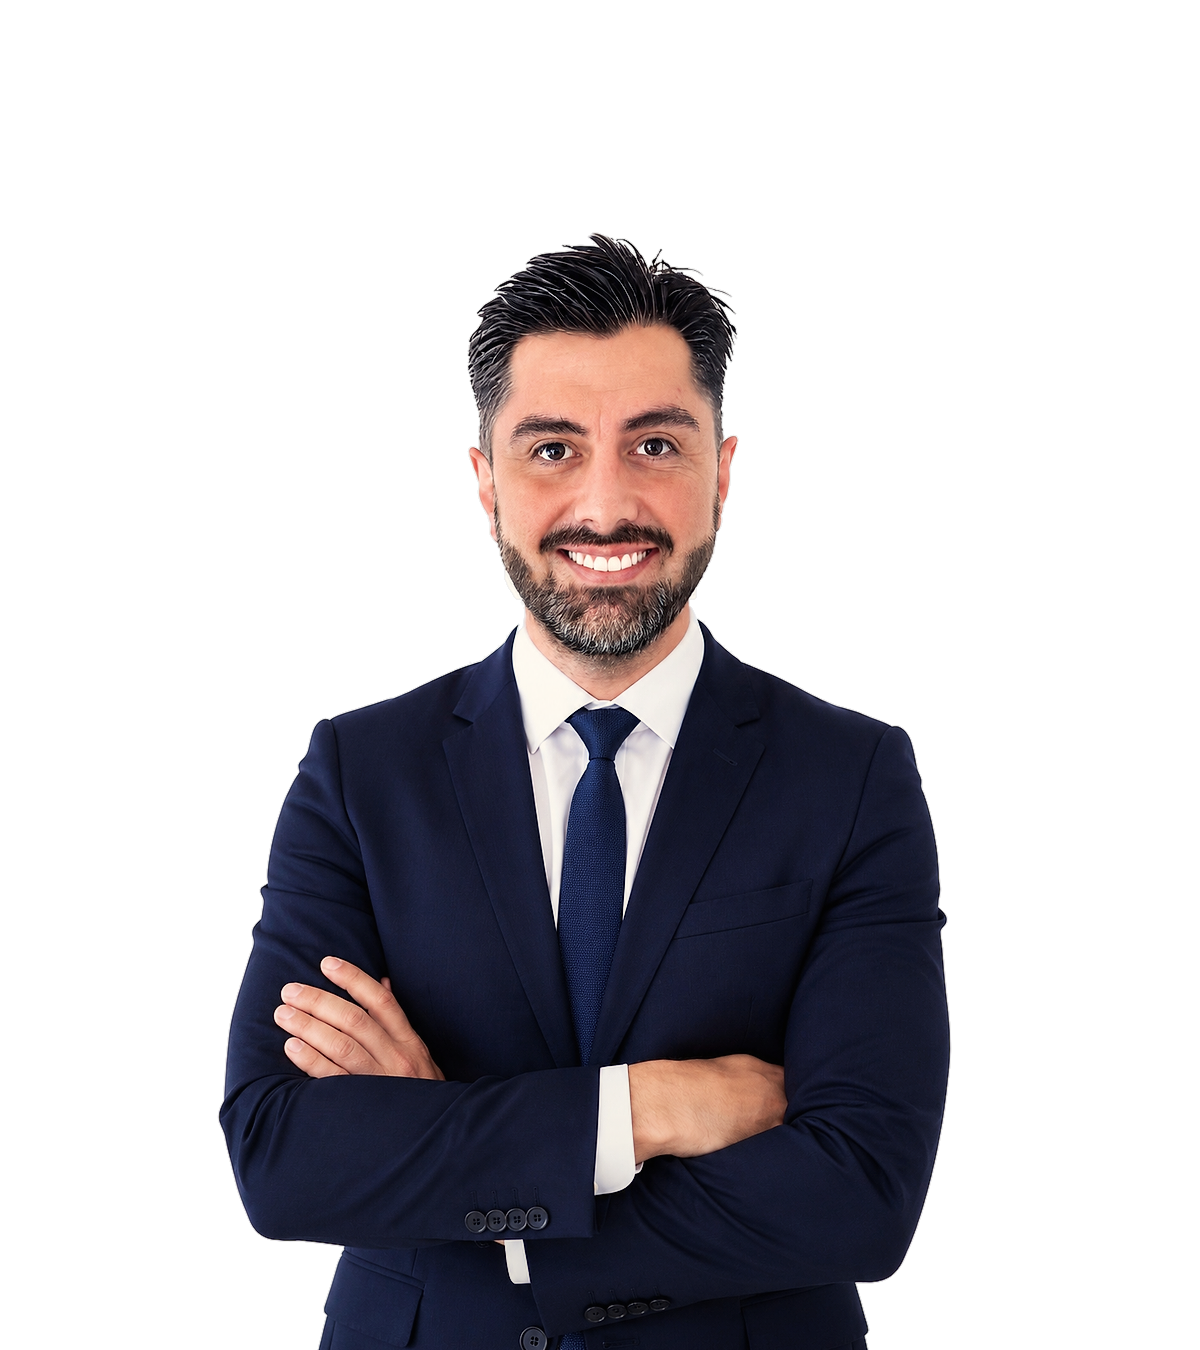
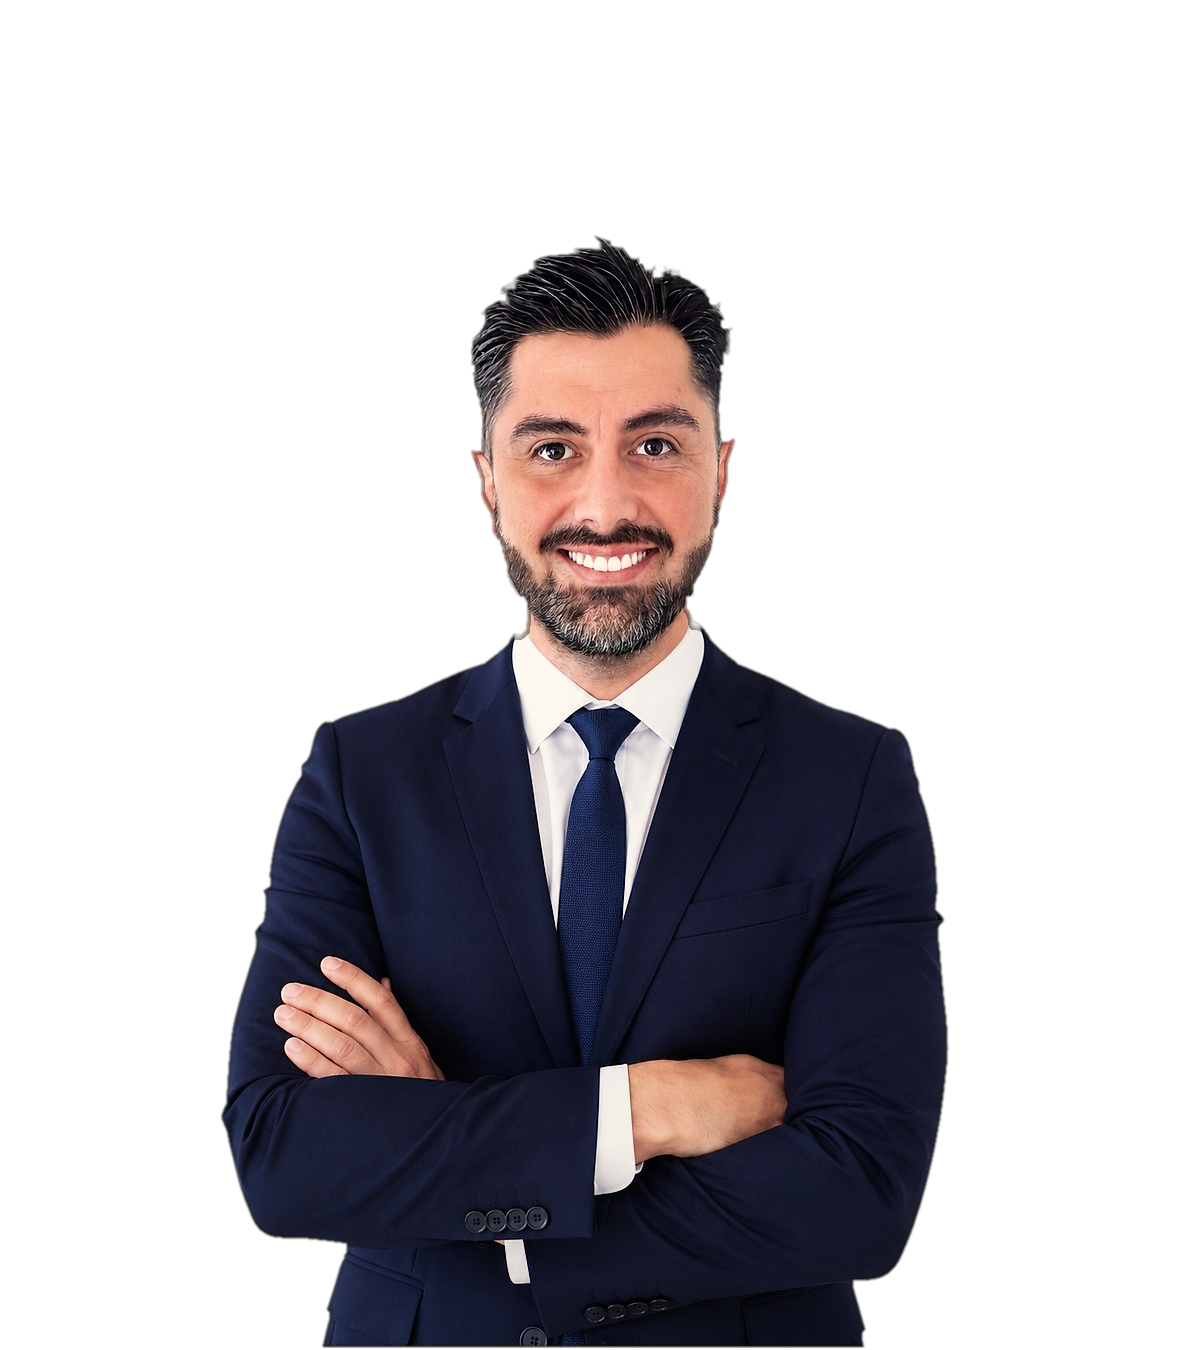
Limpia el halo de los recortes de los directores e iguala su tamaño
Los PNG recortados traían un borde blanco de 2 a 4 px que se notaba sobre el
fondo de tinta. Se erosiona ese borde, se quita la mezcla con blanco y la
franja interior se funde hacia el color del fondo. Las dos figuras pasan a
medir lo mismo; Juan Carlos sigue delante.

diff --git a/components/site/home/HomeSections.tsx b/components/site/home/HomeSections.tsx
@@ -240,8 +240,8 @@ export function HomeBooksBand() {
  * de la foto coincidiendo con el borde inferior del bloque y la cabeza por
  * encima del borde superior. La geometría es plana (colores del sistema,
  * radio de 6px, sin degradados ni sombras); el peso lo ponen la escala y el
- * contraste. Juan Carlos va delante como figura principal; Hugo detrás, sobre el
- * plano de cobre. Al pasar por la ficha de una persona, la otra figura baja
+ * contraste. Las dos figuras miden lo mismo; Juan Carlos va delante y Hugo detrás,
+ * sobre el plano de cobre. Al pasar por la ficha de una persona, la otra figura baja
  * de intensidad para que se lea quién es quién.
  */
 const TEAM = [
@@ -336,8 +336,8 @@ export function HomeTeamClose() {
                             const dim = active !== null && active !== idx;
                             const pos =
                                 idx === 0
-                                    ? "left-[2%] z-20 h-[92%] md:h-[96%] xl:left-0 xl:h-[104%] 2xl:h-[112%]"
-                                    : "right-[4%] z-10 h-[84%] md:h-[90%] xl:right-[2%] xl:h-[96%] 2xl:h-[102%]";
+                                    ? "left-[2%] z-20 h-[88%] md:h-[94%] xl:left-0 xl:h-[100%] 2xl:h-[108%]"
+                                    : "right-[3%] z-10 h-[88%] md:h-[94%] xl:right-[1%] xl:h-[100%] 2xl:h-[108%]";
                             return (
                                 <div
                                     key={person.name}
